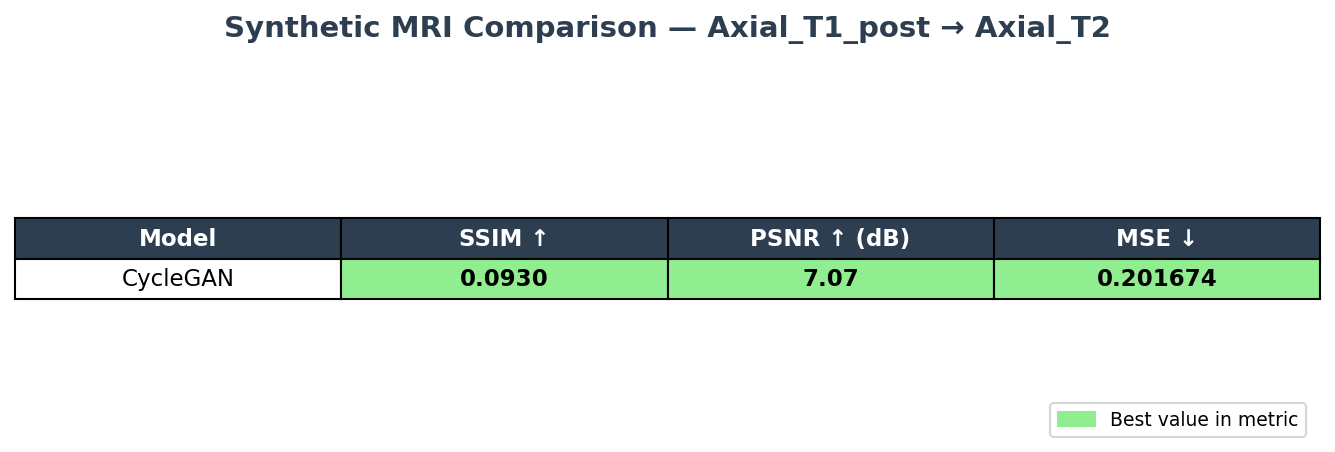
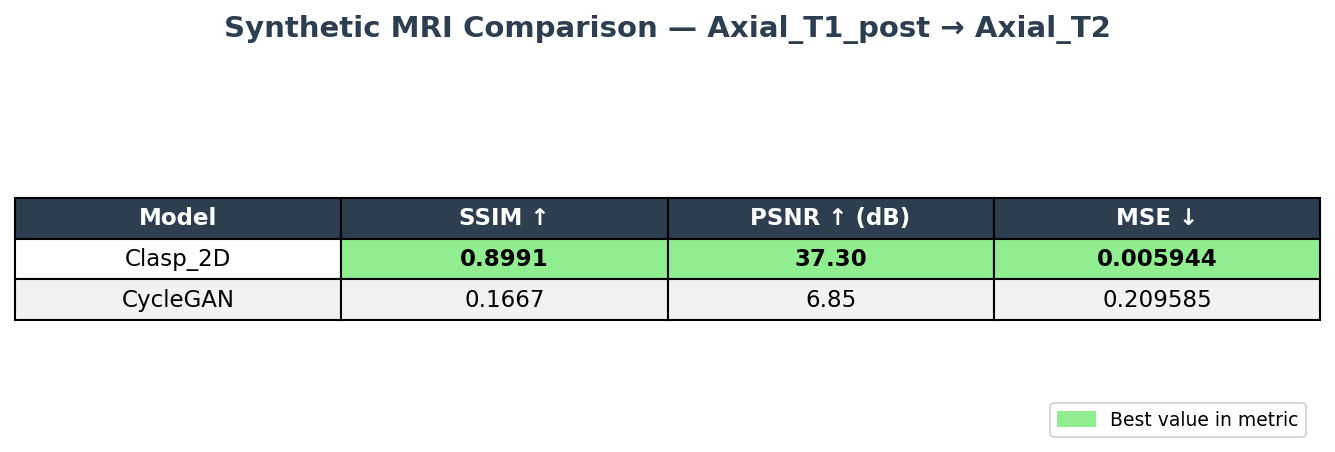
ensure can run both models and see results together

Changed region(s): [[0.0, 0.4336, 1.0, 0.7124]]

diff --git a/main_comparisons.py b/main_comparisons.py
@@ -10,11 +10,12 @@ def parse_args():
     parser.add_argument('--modality_2', type=str, default="Axial_T2",
                         help="Valid options: Axial_T1_post, Axial_T1_pre, Axial_T2, Axial_FLAIR")
     parser.add_argument('--data_dir_results',     type=str, default="./Results/")
-    parser.add_argument('--models_comparing',     type=str, default="cycle_GAN") #,cycle_GAN") add back once finished debugging CLASP-2D
+    parser.add_argument('--models_comparing',     type=str, default="Clasp_2D, cycle_GAN",
+                        help="Valid options: cycle_GAN, Clasp_2D") #,cycle_GAN") add back once finished debugging Clasp_2D
 
     #training parameters
-    parser.add_argument('--epochs',               type=int, default=1)
-    parser.add_argument('--batch_size',           type=int, default=16)
+    parser.add_argument('--epochs',               type=int, default=20)
+    parser.add_argument('--batch_size',           type=int, default=8)
     parser.add_argument('--buffer_size',          type=int, default=1000)
     parser.add_argument('--early_stopping_patience', type=int,   default=3)
     parser.add_argument('--early_stopping_delta',    type=float, default=0.1)
@@ -29,7 +30,7 @@ if __name__ == "__main__":
         modality_1=args.modality_1,
         modality_2=args.modality_2,
         data_dir_results=args.data_dir_results,
-        models_comparing=args.models_comparing.split(','),
+        models_comparing=[m.strip() for m in args.models_comparing.split(',')],
         epochs=args.epochs,
         batch_size=args.batch_size,
         buffer_size=args.buffer_size,

diff --git a/comparison_pipeline.py b/comparison_pipeline.py
@@ -36,8 +36,10 @@ class comp_pipeline:
     def compare(self):
         train, test, val = sort_data(self.h5_files)
         all_results = []
+        print(f"Models comparing: {self.models_comparing}")
 
         if 'Clasp_2D' in self.models_comparing:
+            print("Running Clasp_2D comparison...")
             checkpoint = get_checkpoint(self.modality_1, self.modality_2)
             results = Clasp_2D_model(
                 val, self.modality_1, self.modality_2, checkpoint, self.batch_size)
@@ -45,6 +47,7 @@ class comp_pipeline:
                 all_results.append(results)
 
         if 'cycle_GAN' in self.models_comparing:
+            print("Running CycleGAN comparison...")
             cyclegan = MRIGANPipeline(
                 train_files=train,
                 test_files=test,
